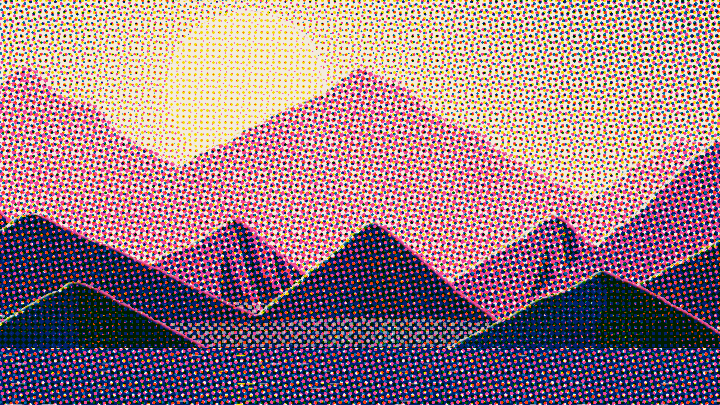
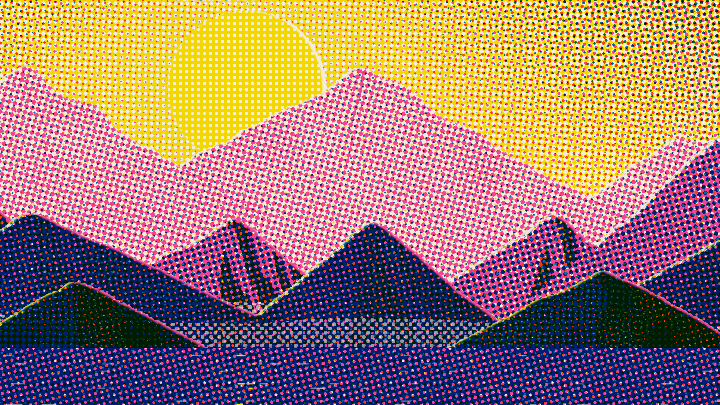
Illustrated environments: riso plate snapping (hand.solid), cleaner mesas, warmer riso sun
Claude-Session: https://claude.ai/code/session_01YBqayZhtLQZUoDivv8TjYD

diff --git a/crates/anikit-video/src/components/nature.rs b/crates/anikit-video/src/components/nature.rs
@@ -223,6 +223,8 @@ pub struct HandOpts {
     pub misregister: Option<Vec<[f32; 2]>>,
     /// Risograph tint steps (0 = continuous tone).
     pub tints: Option<f32>,
+    /// Risograph plate snapping 0..0.45: coverage below it prints nothing, above `1 - solid` prints solid.
+    pub solid: Option<f32>,
     /// Edge breakup amplitude (0 = clean edges).
     pub edge: Option<f32>,
     /// Edge breakup feature size in px.
@@ -772,6 +774,8 @@ fn riso_print(hand: &Hand, out: &mut [f32], w: usize, h: usize, f: Finish, seed:
     let mut al = vec![0.0f32; n];
     let mut memo: std::collections::HashMap<u32, C3> = std::collections::HashMap::new();
     let tints = hand.opts.tints.unwrap_or(4.0);
+    let solid = hand.opts.solid.unwrap_or(0.15).clamp(0.0, 0.45);
+    let (solid_lo, solid_hi) = (solid, 1.0 - solid);
     for i in 0..n {
         al[i] = out[i * 4 + 3];
         if al[i] <= 0.0 {
@@ -792,6 +796,9 @@ fn riso_print(hand: &Hand, out: &mut [f32], w: usize, h: usize, f: Finish, seed:
         } else {
             c
         };
+        // Push near-empty and near-full plates to paper and solid ink: prints read as
+        // flat spot colour with halftone only in between, not a screen everywhere.
+        let c = c.map(|v| ((v - solid_lo) / (solid_hi - solid_lo)).clamp(0.0, 1.0));
         cov[i * 3..i * 3 + 3].copy_from_slice(&c);
     }
     let sc = hand.scale;
@@ -1242,7 +1249,8 @@ impl Geo {
                 let face = if slope * lx < 0.0 { -0.25 } else { 0.6 };
                 let strata = ((y / (16.0 * sc) + vnoise2(x / (200.0 * sc), y / (50.0 * sc), self.seed) * 0.8).fract() < 0.3) as u8 as f32 * (0.5 + 0.5 * steep);
                 let cap = smoothstep(4.0 * sc, 1.0 * sc, depth);
-                let gully = smoothstep(0.55, 0.7, vnoise2(x / (12.0 * sc), y / (140.0 * sc), self.seed ^ 0x99));
+                // Erosion gullies on the cliff faces only, wide enough to read as shapes.
+                let gully = smoothstep(0.5, 0.62, vnoise2(x / (34.0 * sc), y / (220.0 * sc), self.seed ^ 0x99)) * steep;
                 let s = 0.18 + steep * (face - 0.18) + strata * 0.1 - cap * 0.5 + gully * 0.3;
                 (s, 0.0)
             }

diff --git a/docs/video/components.md b/docs/video/components.md
@@ -798,7 +798,7 @@ Whole illustrated worlds from a few props: `landscape` (sky, sun or moon and lay
 | `grain`, `light`, `seed` | `0.5`, varies, `1` | Texture amount; light direction in degrees (0 = from above, negative = from the left); seed. |
 | `boil` | `0` | Edge re-draws per second (edges are re-seeded; 3 variants cycle). |
 | `onTwos` / `stepFps` | off | Step the component's own animation (sway, glints, drift, boil) at 12 fps or at any rate. Camera parallax and push stay smooth. |
-| `hand` | `{}` | Every knob behind the preset, so a spec can go past it: `shade` (shadow multiply tint), `highlight`, `paper`, `ink`, `inks` (3), `halftone` (cell px), `angles` (3 degrees), `misregister` (3 `[dx, dy]`), `tints` (riso tint steps, 0 = continuous), `edge`, `edgeScale`, `soften`, `cel`, `contrast`, `brush`, `hatch` (spacing, 0 = off), `hatchAngle`, `outline` (0 = off), `rim`, `lift`, `liftBlur`, `liftOffset`. |
+| `hand` | `{}` | Every knob behind the preset, so a spec can go past it: `shade` (shadow multiply tint), `highlight`, `paper`, `ink`, `inks` (3), `halftone` (cell px), `angles` (3 degrees), `misregister` (3 `[dx, dy]`), `tints` (riso tint steps, 0 = continuous), `solid` (snap thin plates to paper and dense ones to solid ink), `edge`, `edgeScale`, `soften`, `cel`, `contrast`, `brush`, `hatch` (spacing, 0 = off), `hatchAngle`, `outline` (0 = off), `rim`, `lift`, `liftBlur`, `liftOffset`. |
 
 Shadows multiply towards a cool or complementary tint, and lit faces lift towards the light colour; neither is plain darkening. `flat`, `risograph` and `papercut` quantise shading into cel steps (`hand.cel` toggles this).
 
